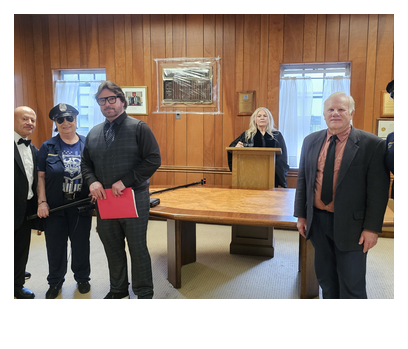
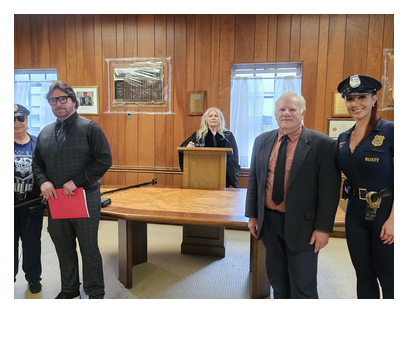
Fix crop for 5 polaroids where people were cut out
Added CROP_CENTER per-file overrides in make_polaroids.py:
- 20230127_184811: shift left (cx=0.28) — actress on sofa was cropped out
- deflating.png: pull to top (cy=0.10) — man's head was cut off
- house-of-fun.jpg: slight upper bias (cy=0.42)
- rocco_1.90.1.jpg: upper crop (cy=0.32) — show faces not bathroom wall
- 20250426_160237.jpg: shift right (cx=0.58) — Officer Busty cropped out

diff --git a/make_polaroids.py b/make_polaroids.py
@@ -47,31 +47,45 @@ SKIP = {
 }
 
 
-def crop_to_ratio(img, target_w, target_h):
-    """Apply EXIF rotation then centre-crop to target aspect ratio."""
+# Per-file crop centre overrides.
+# (cx, cy) = fraction of source image to use as crop centre.
+#   cx: 0.0=left edge  0.5=centre  1.0=right edge
+#   cy: 0.0=top edge   0.5=centre  1.0=bottom edge
+CROP_CENTER = {
+    '20230127_184811.jpg': (0.28, 0.5),  # actress on far-left was cropped out
+    'deflating.png':       (0.5,  0.10), # head cut off — pull crop to top
+    'house-of-fun.jpg':    (0.5,  0.42), # people tight — slight upper bias
+    'rocco_1.90.1.jpg':    (0.5,  0.32), # show faces not bathroom wall
+    '20250426_160237.jpg': (0.58, 0.5),  # Busty on far-right was cropped out
+}
+
+
+def crop_to_ratio(img, target_w, target_h, cx=0.5, cy=0.5):
+    """Apply EXIF rotation then crop to target aspect ratio centred at (cx, cy)."""
     img = ImageOps.exif_transpose(img)   # fix sideways/upside-down EXIF
     w, h = img.size
     target_r = target_w / target_h
     current_r = w / h
 
     if current_r > target_r:
-        # Image is wider — crop left and right equally
+        # Image is wider — crop sides
         new_w = int(h * target_r)
-        x0 = (w - new_w) // 2
+        x0 = max(0, min(int(w * cx - new_w / 2), w - new_w))
         img = img.crop((x0, 0, x0 + new_w, h))
     else:
-        # Image is taller (portrait) — centre crop vertically
-        # (top-bias missed subjects in lower half of portrait shots)
+        # Image is taller — crop top/bottom
         new_h = int(w / target_r)
-        top = (h - new_h) // 2
-        img = img.crop((0, top, w, top + new_h))
+        y0 = max(0, min(int(h * cy - new_h / 2), h - new_h))
+        img = img.crop((0, y0, w, y0 + new_h))
 
     return img.resize((target_w, target_h), Image.LANCZOS)
 
 
 def make_polaroid(src_path, dst_path):
-    img = Image.open(src_path).convert('RGB')
-    photo = crop_to_ratio(img, INNER_W, INNER_H)
+    img  = Image.open(src_path).convert('RGB')
+    fname = os.path.basename(src_path)
+    cx, cy = CROP_CENTER.get(fname, (0.5, 0.5))
+    photo = crop_to_ratio(img, INNER_W, INNER_H, cx=cx, cy=cy)
 
     # White Polaroid frame
     frame = Image.new('RGB', (OUTER_W, OUTER_H), WHITE)